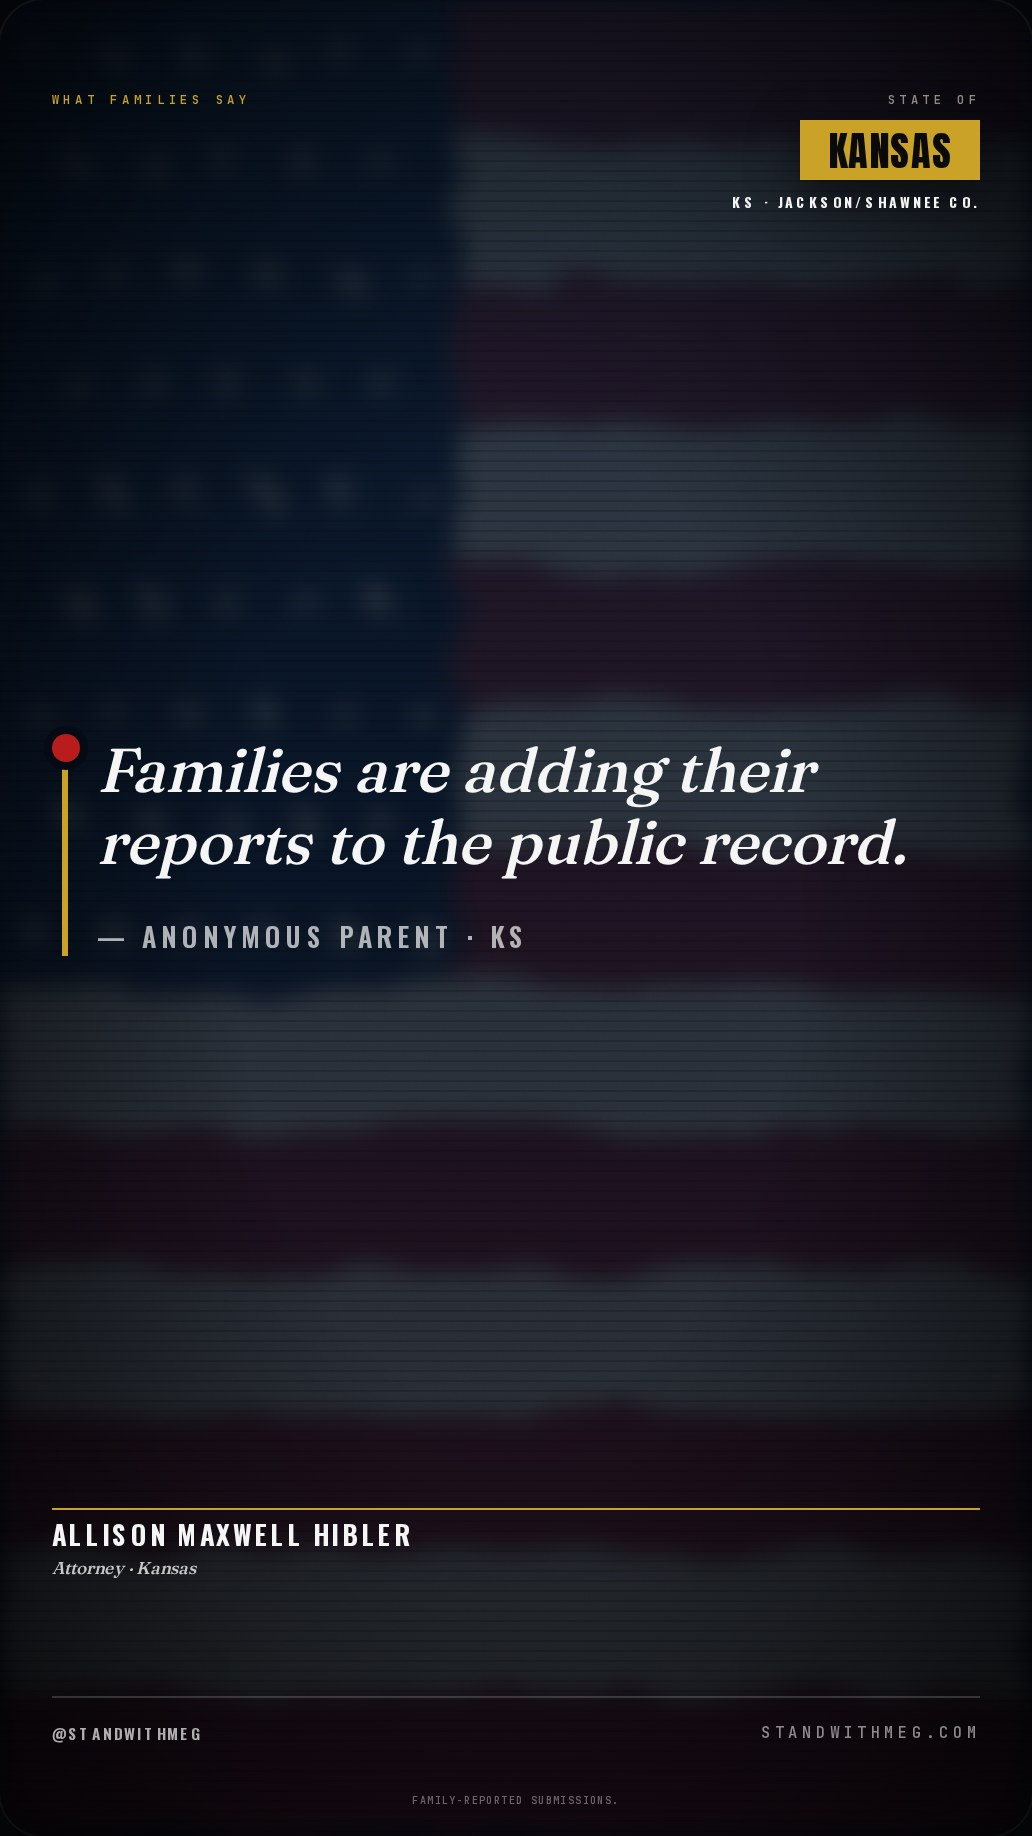
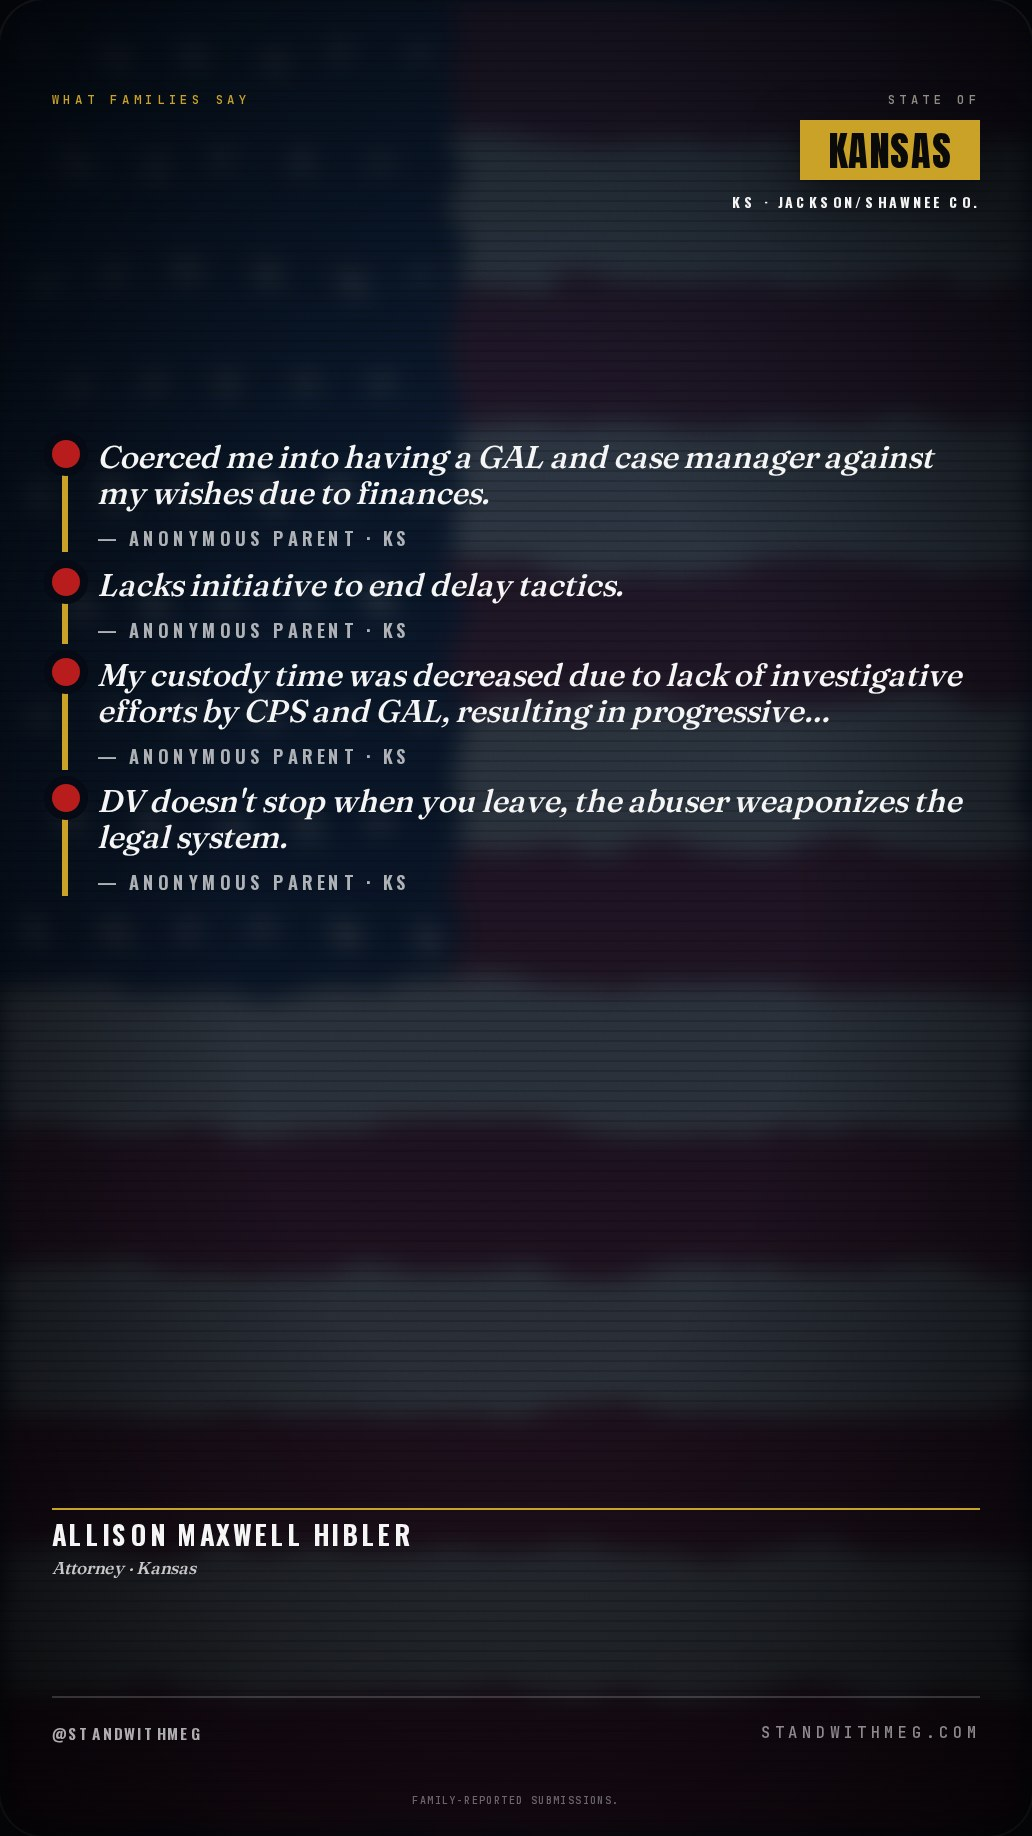
chore: auto-regenerate 9 report/share file(s) from live Supabase data

diff --git a/public/court-actors/ks/alison_hibler/share.html b/public/court-actors/ks/alison_hibler/share.html
@@ -580,7 +580,7 @@ html,body { background:#06070A; color:var(--white); font-family:Inter,system-ui,
 </section>
 <section class="phone-frame">
 <article class="frame frame-image" id="frame-02">
-  <img class="frame-img" src="frame-02.jpg?v=6737adee64" alt="Allison Maxwell Hibler share slide 2 of 7">
+  <img class="frame-img" src="frame-02.jpg?v=462b9014ad" alt="Allison Maxwell Hibler share slide 2 of 7">
 </article>
 
 <div class="frame-actions" aria-label="Frame 2 actions">
@@ -590,7 +590,7 @@ html,body { background:#06070A; color:var(--white); font-family:Inter,system-ui,
 </section>
 <section class="phone-frame">
 <article class="frame frame-image" id="frame-03">
-  <img class="frame-img" src="frame-03.jpg?v=c4962f512d" alt="Allison Maxwell Hibler share slide 3 of 7">
+  <img class="frame-img" src="frame-03.jpg?v=685e2f5987" alt="Allison Maxwell Hibler share slide 3 of 7">
 </article>
 
 <div class="frame-actions" aria-label="Frame 3 actions">
@@ -610,7 +610,7 @@ html,body { background:#06070A; color:var(--white); font-family:Inter,system-ui,
 </section>
 <section class="phone-frame">
 <article class="frame frame-image" id="frame-05">
-  <img class="frame-img" src="frame-05.jpg?v=cf1b80a5b5" alt="Allison Maxwell Hibler share slide 5 of 7">
+  <img class="frame-img" src="frame-05.jpg?v=39a7d235bb" alt="Allison Maxwell Hibler share slide 5 of 7">
 </article>
 
 <div class="frame-actions" aria-label="Frame 5 actions">
@@ -620,7 +620,7 @@ html,body { background:#06070A; color:var(--white); font-family:Inter,system-ui,
 </section>
 <section class="phone-frame">
 <article class="frame frame-image" id="frame-06">
-  <img class="frame-img" src="frame-06.jpg?v=f98f574758" alt="Allison Maxwell Hibler share slide 6 of 7">
+  <img class="frame-img" src="frame-06.jpg?v=24dbb6deec" alt="Allison Maxwell Hibler share slide 6 of 7">
 </article>
 
 <div class="frame-actions" aria-label="Frame 6 actions">
@@ -630,7 +630,7 @@ html,body { background:#06070A; color:var(--white); font-family:Inter,system-ui,
 </section>
 <section class="phone-frame">
 <article class="frame frame-image" id="frame-07">
-  <img class="frame-img" src="frame-07.jpg?v=eb3380f749" alt="Allison Maxwell Hibler share slide 7 of 7">
+  <img class="frame-img" src="frame-07.jpg?v=c0f5747ed7" alt="Allison Maxwell Hibler share slide 7 of 7">
 </article>
 
 <div class="frame-actions" aria-label="Frame 7 actions">
@@ -746,8 +746,8 @@ html,body { background:#06070A; color:var(--white); font-family:Inter,system-ui,
 </div>
 
   <div class="frame-tag">WHAT FAMILIES SAY</div>
-  <div class="f4-body f4-count-1">
-    <div class="f4-quote"><span class="f4-dot"></span><p class="f4-text">Families are adding their reports to the public record.</p><p class="f4-attr">— Anonymous parent · KS</p></div>
+  <div class="f4-body f4-count-4">
+    <div class="f4-quote"><span class="f4-dot"></span><p class="f4-text">Coerced me into having a GAL and case manager against my wishes due to finances.</p><p class="f4-attr">— Anonymous parent · KS</p></div><div class="f4-quote"><span class="f4-dot"></span><p class="f4-text">Lacks initiative to end delay tactics.</p><p class="f4-attr">— Anonymous parent · KS</p></div><div class="f4-quote"><span class="f4-dot"></span><p class="f4-text">My custody time was decreased due to lack of investigative efforts by CPS and GAL, resulting in progressive…</p><p class="f4-attr">— Anonymous parent · KS</p></div><div class="f4-quote"><span class="f4-dot"></span><p class="f4-text">DV doesn&#x27;t stop when you leave, the abuser weaponizes the legal system.</p><p class="f4-attr">— Anonymous parent · KS</p></div>
   </div>
 
 <div class="actor-id-strip">
@@ -1046,7 +1046,7 @@ html,body { background:#06070A; color:var(--white); font-family:Inter,system-ui,
   <details>
     <summary>Audit notes</summary>
     <p>Spec source: <code>New Final Post and Capcut template/export/alison_hibler</code></p>
-    <ul><li>public_family_count_api: no actors returned for state=&#x27;KS&#x27;</li><li>family_reports: no submission_ids on actor</li><li>public_comments: no merged comments or raw notes available</li><li>pdf_public_actor: no &#x27;Allison Maxwell Hibler&#x27; in cache for KS</li></ul>
+    <ul><li>public_family_count_api: no actors returned for state=&#x27;KS&#x27;</li><li>pdf_public_actor: no &#x27;Allison Maxwell Hibler&#x27; in cache for KS</li></ul>
   </details>
 </aside>
 <script>
